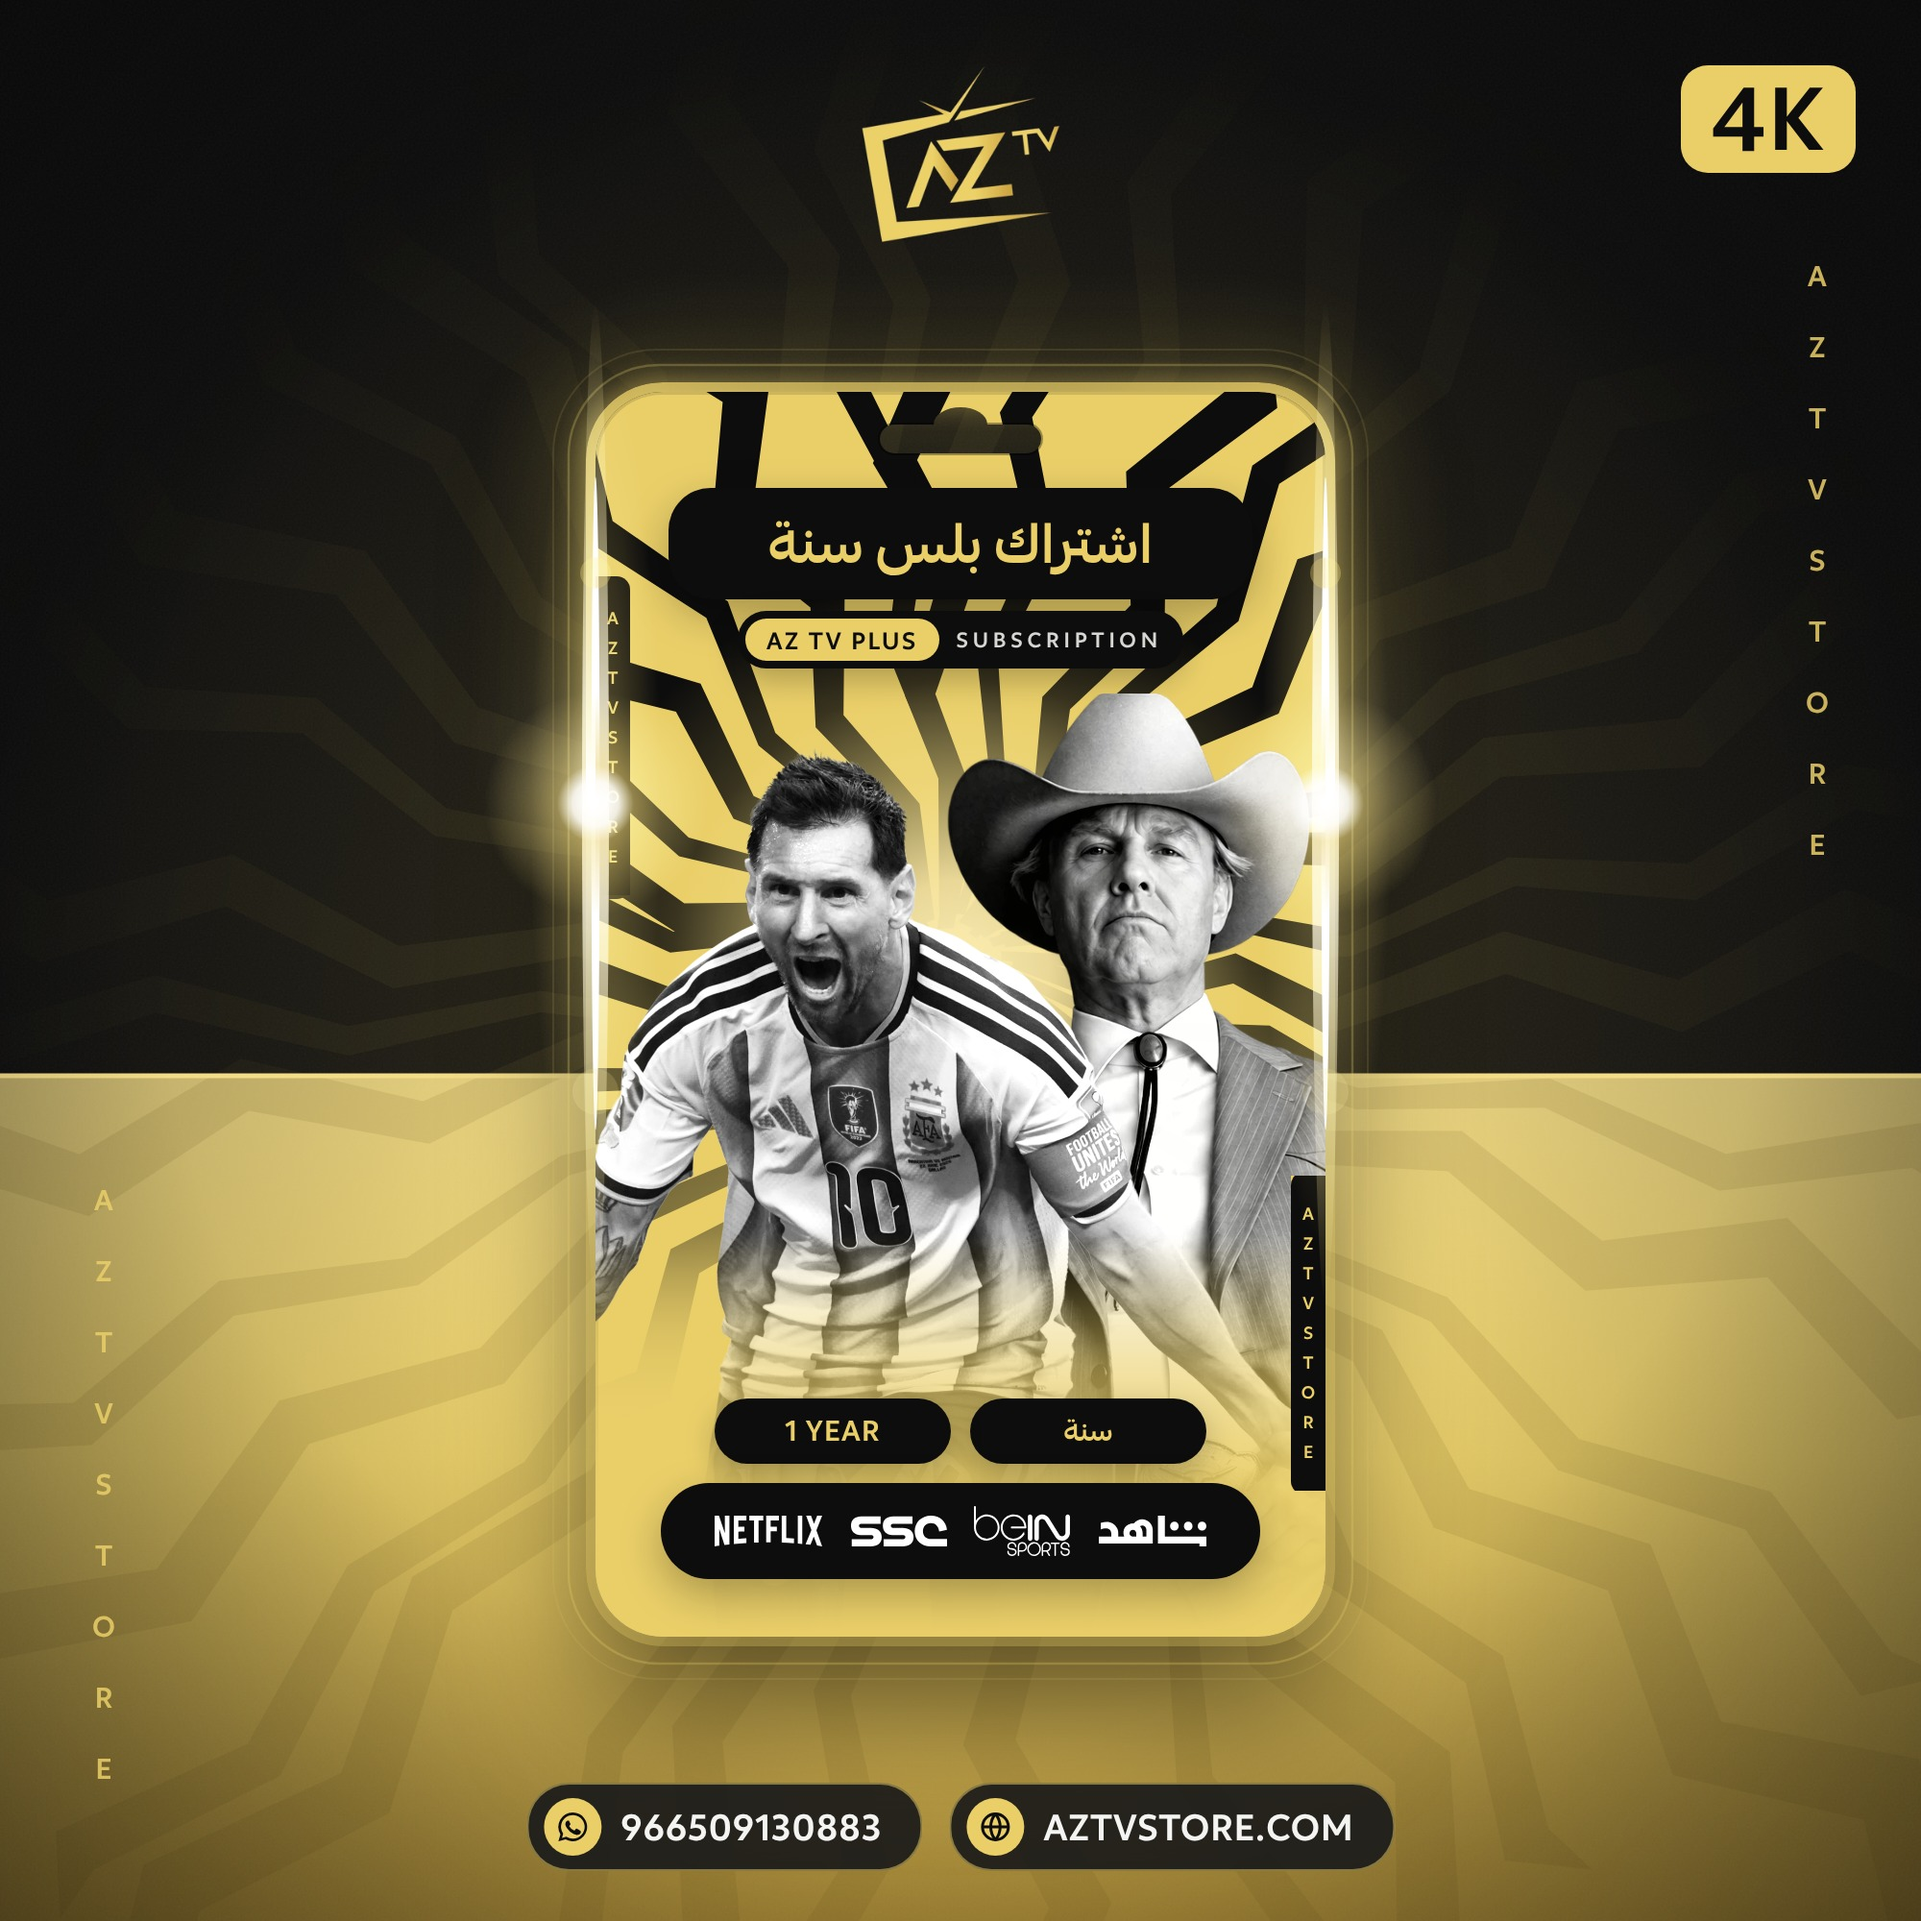
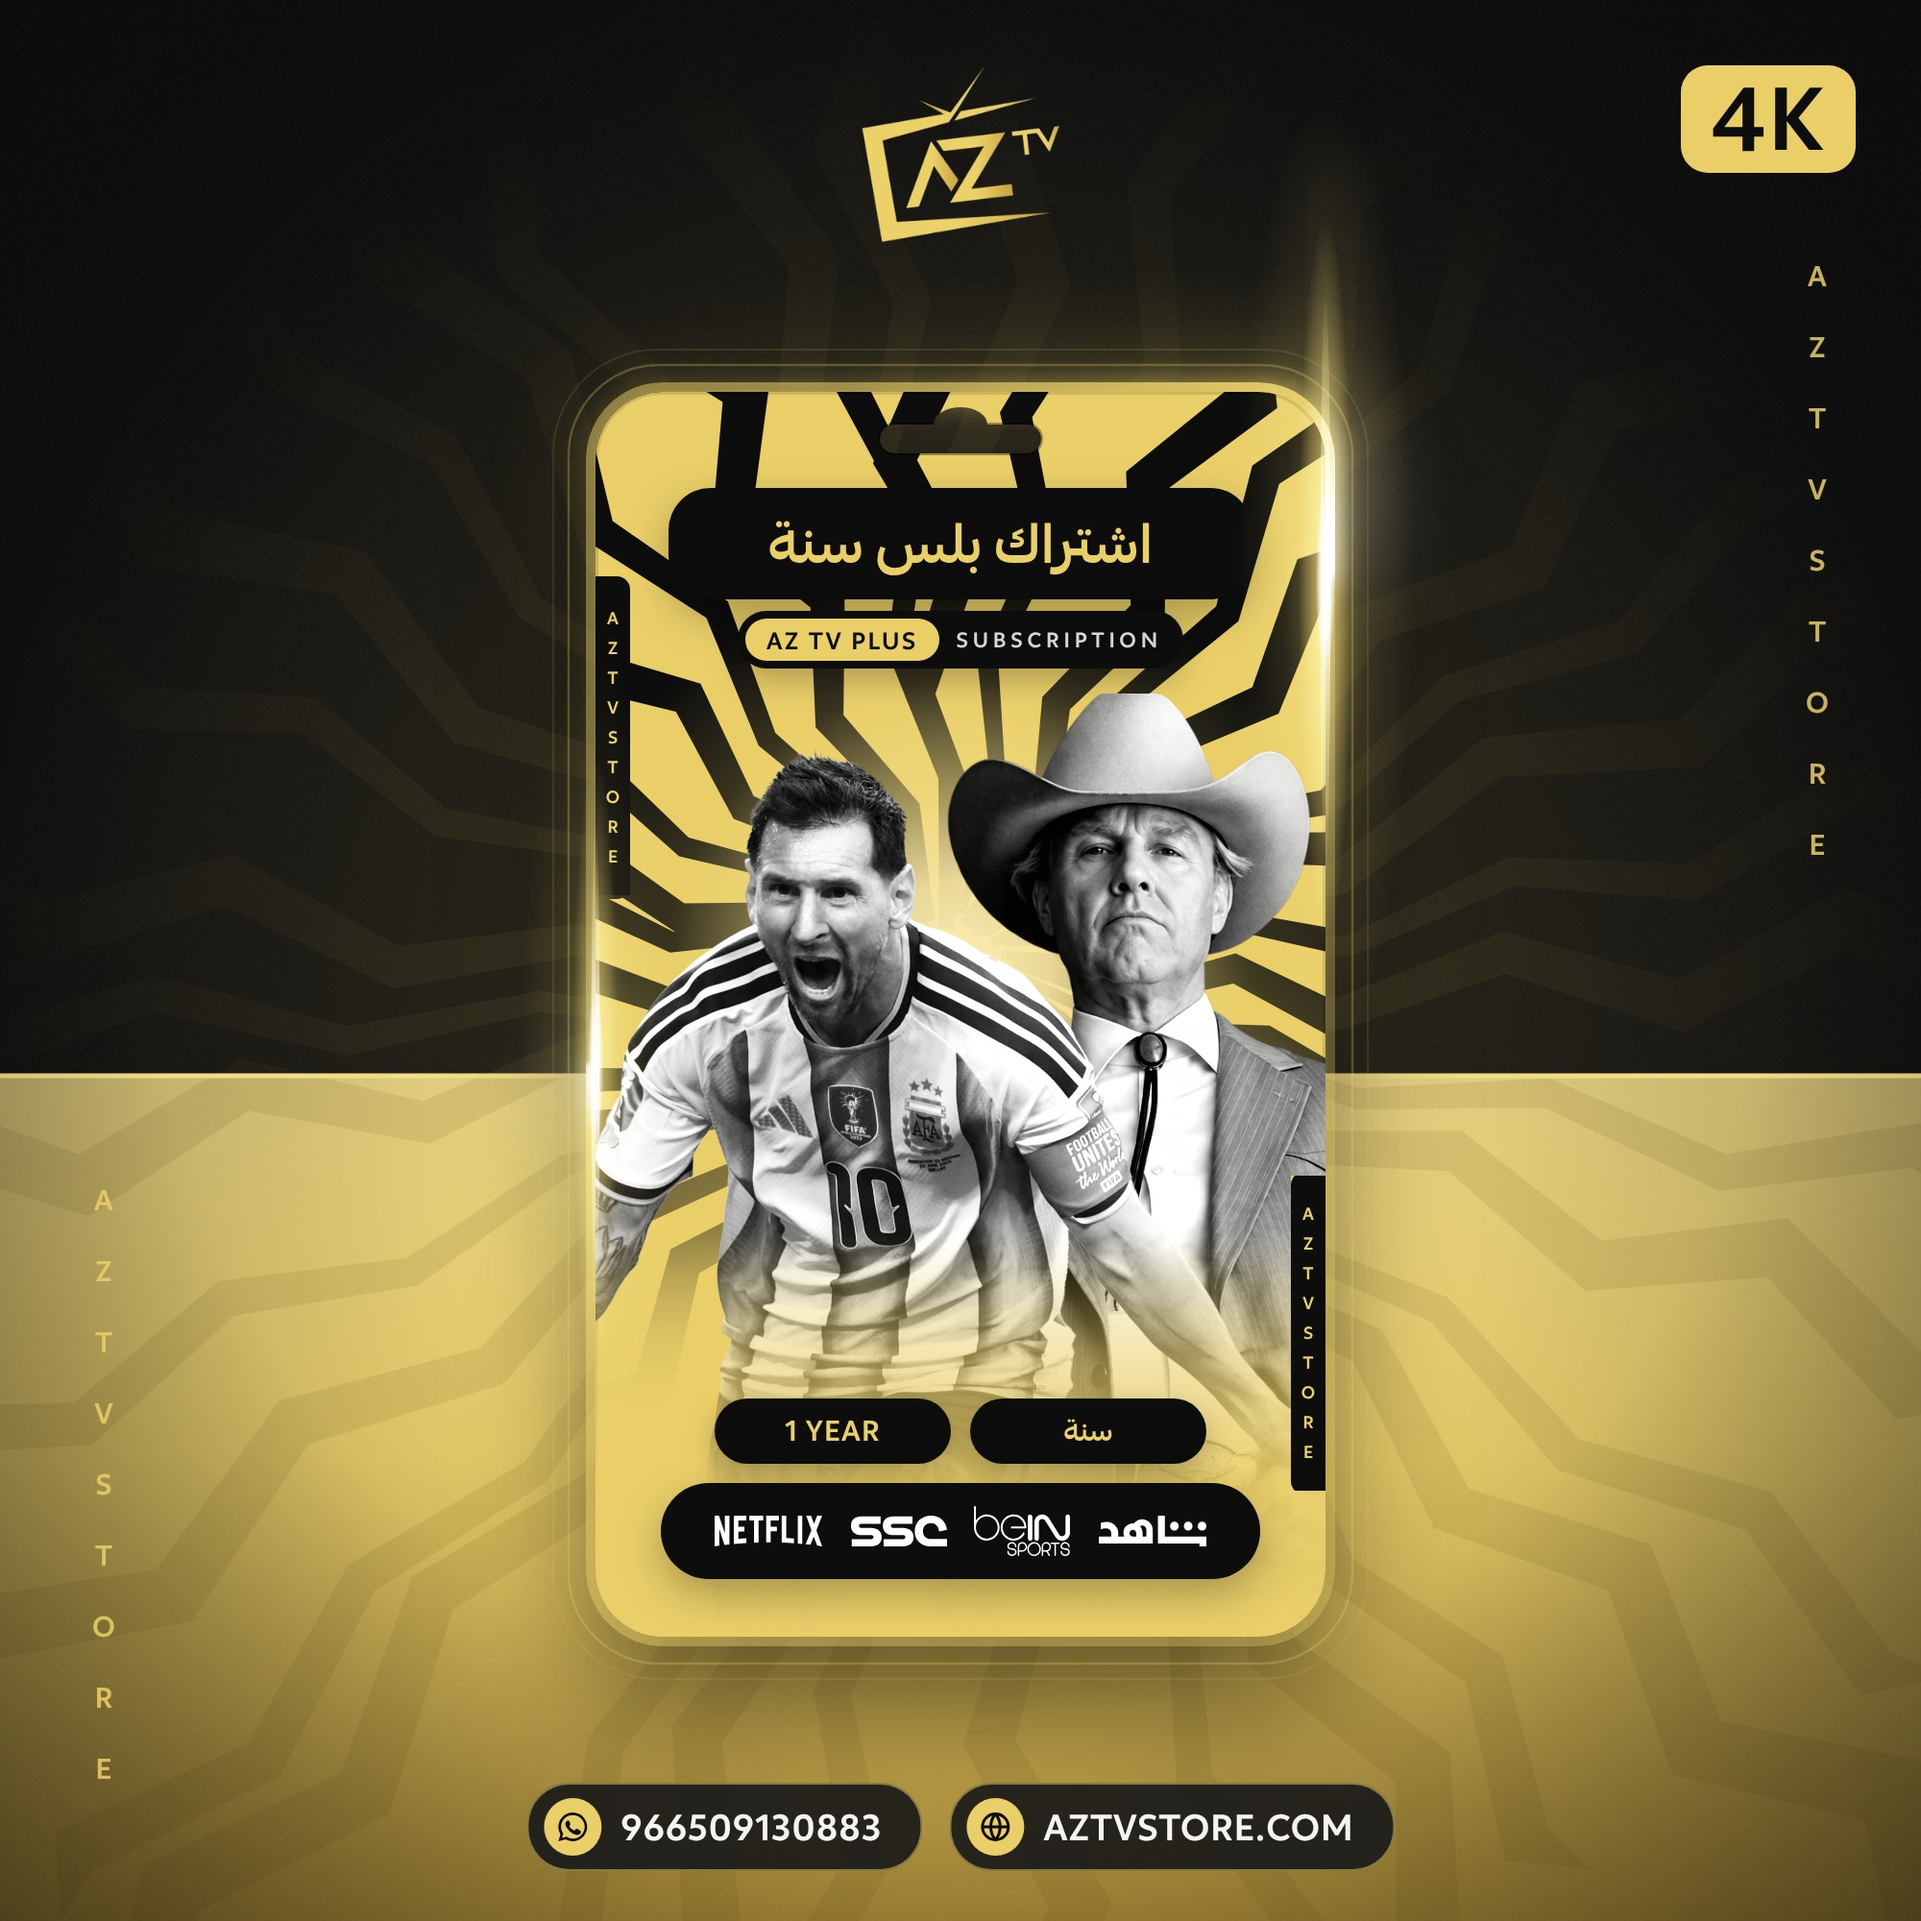
Shine option A: two vertical spotlights at different heights, no round cores
Claude-Session: https://claude.ai/code/session_01D8XCbG6TVkErSujRZYkAkh

Changed region(s): [[0.248, 0.186, 0.434, 0.682], [0.651, 0.124, 0.744, 0.651]]

diff --git a/05-design/shared/subscription-backgrounds/backgrounds.html b/05-design/shared/subscription-backgrounds/backgrounds.html
@@ -281,24 +281,26 @@ bg.style.setProperty("--glow", C.glow);
     <linearGradient id="streakH"><stop offset="0" stop-color="rgb(${g})" stop-opacity="0"/><stop offset=".5" stop-color="#fff" stop-opacity=".95"/><stop offset="1" stop-color="rgb(${g})" stop-opacity="0"/></linearGradient>
   </defs>`;
   if (mode === "a") {
-    // upright flare that hugs the side edge: a bright hairline running up and down the edge, a wide soft glow, a hot core
-    const edgeFlare = ([x, y]) => `<g transform="translate(${x.toFixed(1)} ${y.toFixed(1)})" style="mix-blend-mode:screen">
-      <ellipse rx="34" ry="230" fill="url(#halo)" opacity=".55"/>
-      <ellipse rx="7" ry="260" fill="url(#streakV)"/>
-      <ellipse rx="2.2" ry="170" fill="#fff"/>
-      <circle r="58" fill="url(#halo)"/><circle r="20" fill="url(#core)"/>
-      <circle cy="-120" r="8" fill="rgb(${g})" opacity=".35"/><circle cy="150" r="12" fill="rgb(${g})" opacity=".2"/></g>`;
-    // two comets mirrored left and right: both heads on the dark upper half, at the same height (60deg and 300deg, 0 = up)
-    const HEAD = 60;
+    // vertical spotlight on the side edge, like a studio light caught on the card's rim: no round blobs, only tall soft
+    // shapes that are brightest in the middle and fade out up and down. k = strength; warm = more tier colour, less white
+    const spot = ([x, y], k, warm) => `<g transform="translate(${x.toFixed(1)} ${y.toFixed(1)})" style="mix-blend-mode:screen">
+      <ellipse rx="${46 * k}" ry="${250 * k}" fill="url(#spotWide)" opacity="${.8 * k}"/>
+      <ellipse rx="${14 * k}" ry="${190 * k}" fill="url(#spotMid)" opacity="${warm ? .8 : .95}"/>
+      <ellipse rx="${2.6 * k}" ry="${150 * k}" fill="url(#streakV)"/>
+      <ellipse rx="${5 * k}" ry="${46 * k}" fill="url(#spotHot)" opacity="${warm ? .75 : 1}"/></g>`;
+    const spotDefs = `<defs>
+      <radialGradient id="spotWide"><stop offset="0" stop-color="rgb(${g})" stop-opacity=".55"/><stop offset=".5" stop-color="rgb(${g})" stop-opacity=".16"/><stop offset="1" stop-color="rgb(${g})" stop-opacity="0"/></radialGradient>
+      <radialGradient id="spotMid"><stop offset="0" stop-color="#fff" stop-opacity=".9"/><stop offset=".35" stop-color="rgb(${g})" stop-opacity=".6"/><stop offset="1" stop-color="rgb(${g})" stop-opacity="0"/></radialGradient>
+      <radialGradient id="spotHot"><stop offset="0" stop-color="#fff"/><stop offset=".7" stop-color="#fff" stop-opacity=".6"/><stop offset="1" stop-color="#fff" stop-opacity="0"/></radialGradient></defs>`;
+    // two lights at different places (client): the main one high on the right edge, a softer, warmer one low on the left edge
+    const RIGHT = 40, LEFT = 262;   // right head y ~300, left head y ~555 (just above the stage split, so it stays visible)
     const outer = `<rect x="296" y="190" width="408" height="676" rx="47" fill="none" stroke="rgba(${g},.28)" stroke-width="1.2"/>
       <rect x="288" y="182" width="424" height="692" rx="54" fill="none" stroke="rgba(${g},.12)" stroke-width="1"/>`;
-    // the flares stand upright and run along the card's side edges (client: horizontal was not realistic)
-    document.getElementById("fx").innerHTML = defs + outer + edgeFlare(onEdge(HEAD)) + edgeFlare(onEdge(360 - HEAD));
+    document.getElementById("fx").innerHTML = defs + spotDefs + outer + spot(onEdge(RIGHT), 1, false) + spot(onEdge(LEFT), .85, true);
     document.querySelectorAll(".shine-a .edge").forEach(e => {
-      // right comet runs clockwise, its tail behind it (anticlockwise); left comet is its mirror image
-      const right = `conic-gradient(from ${HEAD - 150}deg at 50% 50%, transparent 0deg, rgba(${g}, .08) 40deg, rgba(${g}, .35) 100deg, rgba(${g}, .9) 140deg, #fff 147deg, #fff 150deg, transparent 151deg)`;
-      const left = `conic-gradient(from ${360 - HEAD - 1}deg at 50% 50%, transparent 0deg, #fff 1deg, #fff 4deg, rgba(${g}, .9) 11deg, rgba(${g}, .35) 51deg, rgba(${g}, .08) 111deg, transparent 151deg)`;
-      e.style.background = `${right}, ${left}, rgba(${g}, ${e.closest(".glow-wrap") ? 0 : .3})`;
+      // both lights run clockwise round the rim, each trailing a fading tail; the second one is weaker
+      const tail = (head, k) => `conic-gradient(from ${head - 150}deg at 50% 50%, transparent 0deg, rgba(${g}, ${.08 * k}) 40deg, rgba(${g}, ${.35 * k}) 100deg, rgba(${g}, ${.9 * k}) 140deg, rgba(255,255,255,${k}) 147deg, rgba(255,255,255,${k}) 150deg, transparent 151deg)`;
+      e.style.background = `${tail(RIGHT, 1)}, ${tail(LEFT, .7)}, rgba(${g}, ${e.closest(".glow-wrap") ? 0 : .3})`;
     });
   }
   if (mode === "b") {

diff --git a/05-design/shared/subscription-cards/README.md b/05-design/shared/subscription-cards/README.md
@@ -48,7 +48,7 @@ The client asked for the product images to be "more shining". A first try (glow 
 
 The client liked the edge light and asked for two more epic options built on it, on the same two images:
 
-- **Option A «comet»** (`product-images/f-shine-a/`, `&shine=a`), **the chosen direction**: two light trails run round the card's rim with fading tails, mirrored left and right; their heads sit on the card's side edges on the dark half of the stage, each with an **upright** flare that hugs the edge (a bright hairline running up and down the edge, a soft glow and a hot core). The client said the first, horizontal flares were not realistic, so they are now vertical. Two faint outer frame lines around the card.
+- **Option A «comet»** (`product-images/f-shine-a/`, `&shine=a`), **the chosen direction**: two vertical spotlights on the card's side edges, like a studio light caught on the rim (tall soft shapes, brightest in the middle, no round blobs): the main one bright and white, high on the right edge; a second, softer and warmer one lower on the left edge, just above the stage split so it stays visible. Each trails a fading light tail round the rim (clockwise). Two faint outer frame lines around the card. History: first horizontal flares (not realistic), then vertical flares at the same height on both sides with round cores (client: not realistic, too similar).
 - Option B «power-up» (burning rim and light beams across the stage) was rejected; its images were removed (git history), the code stays behind `&shine=b`.
 - Export: `node render-products.cjs f shine-a aztv-3m plus-12m` (or `shine-b`); all cards once one is chosen: `node render-products.cjs f shine-a`.
 
